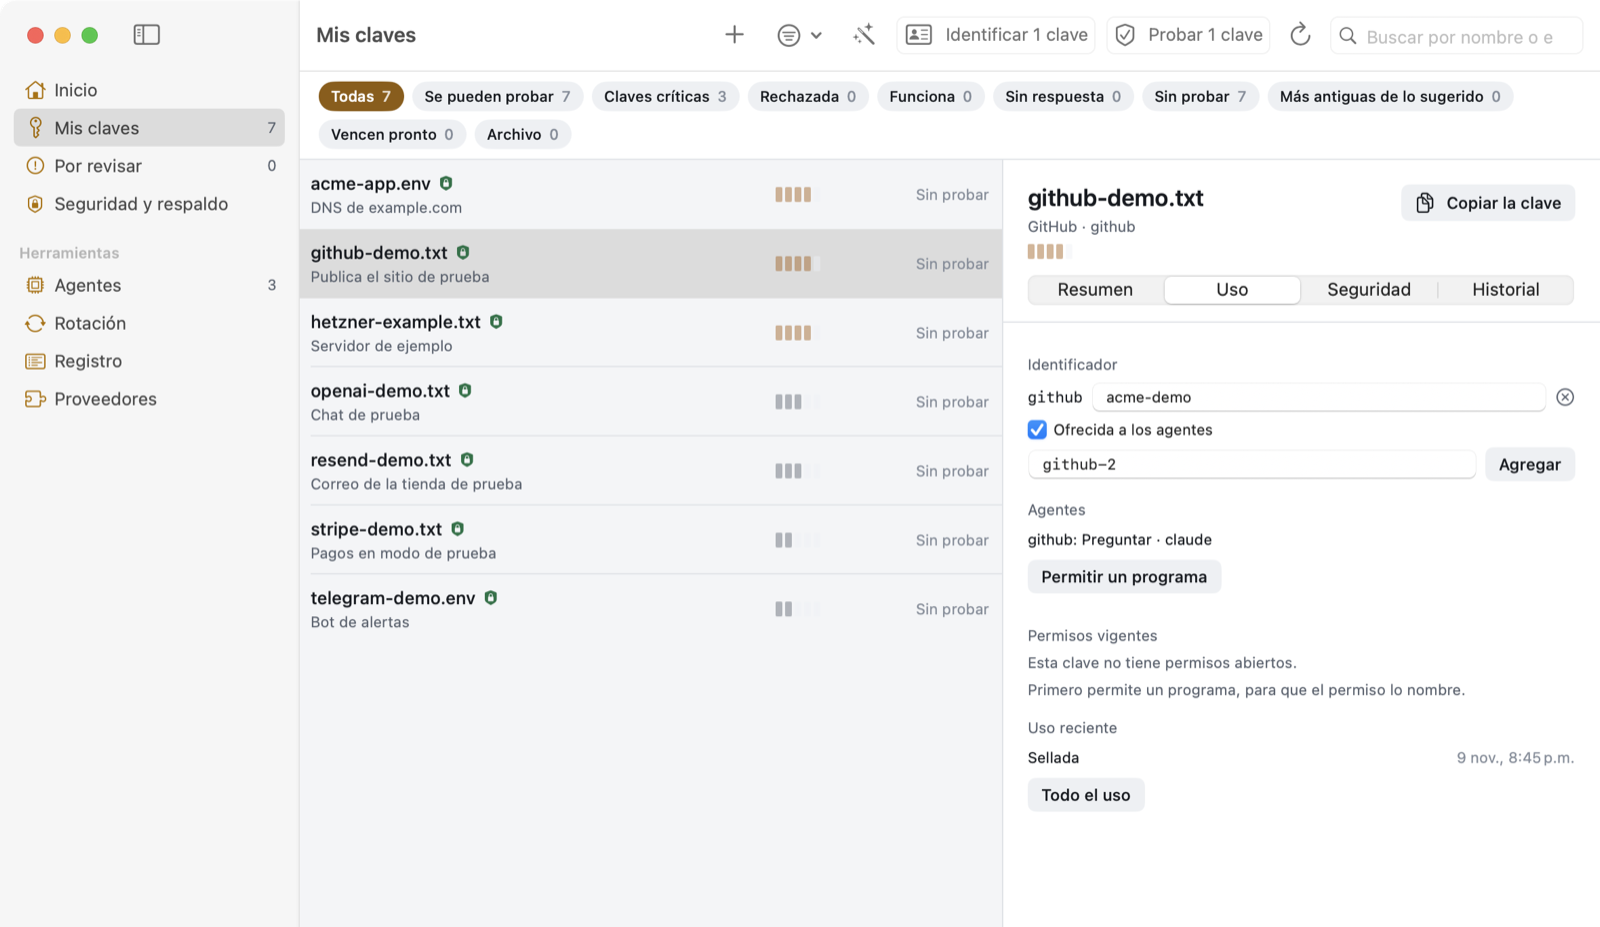
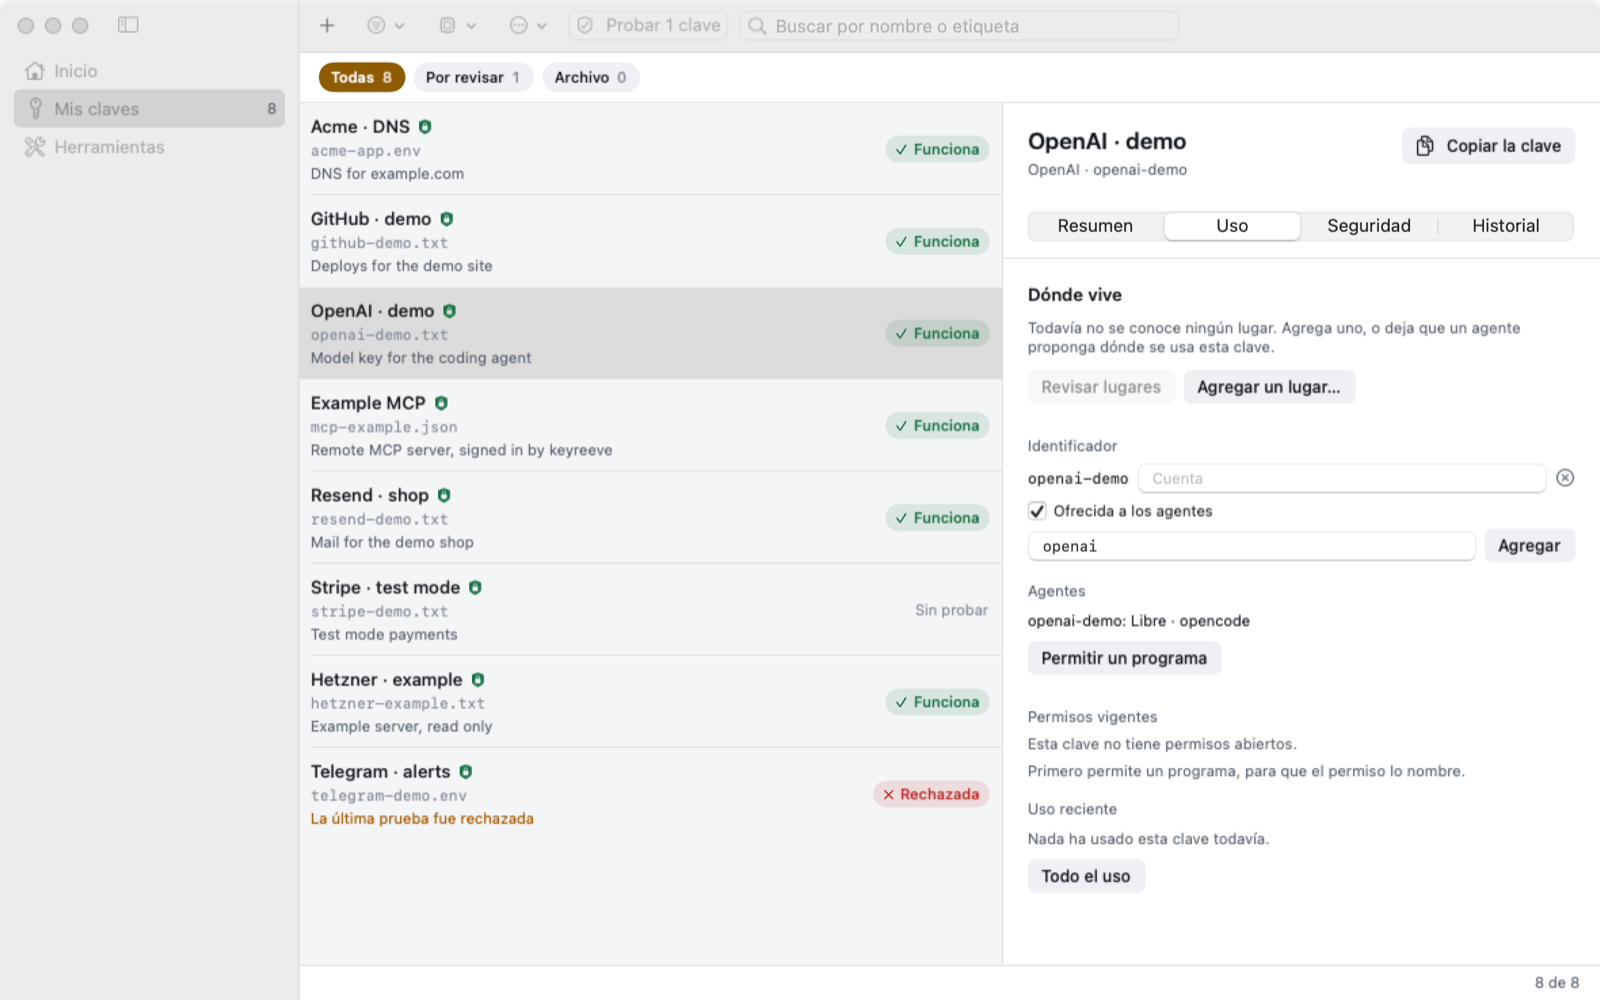
Draw the docs screenshots and a tour GIF from the real views over made-up keys

diff --git a/app/Tests/AppTests/DocsScreenshots.swift b/app/Tests/AppTests/DocsScreenshots.swift
@@ -1,0 +1,116 @@
+import AppKit
+@testable import KeyreeveCatalog
+@testable import KeyreeveVault
+import Foundation
+@testable import KeyreeveUI
+import SwiftUI
+import Testing
+
+/// The screenshots of the README and the site, drawn from the real views over made-up keys, in a real window
+/// with its title bar. Off unless KEYREEVE_DOCS_SHOTS names a folder: the images go to <folder>/en and
+/// <folder>/es, and `app/docs-screenshots.sh` copies them to docs/img.
+@MainActor
+struct DocsScreenshots {
+    static let folder = ProcessInfo.processInfo.environment["KEYREEVE_DOCS_SHOTS"]
+
+    static let keys: [(source: String, id: String, provider: String, name: String, description: String, tags: [String], result: String?)] = [
+        ("acme-app.env", "acme-app", "cloudflare", "Acme · DNS", "DNS for example.com", ["acme", "infra"], "works"),
+        ("github-demo.txt", "github-demo", "github", "GitHub · demo", "Deploys for the demo site", ["demo"], "works"),
+        ("openai-demo.txt", "openai-demo", "openai", "OpenAI · demo", "Model key for the coding agent", ["demo", "agents"], "works"),
+        ("mcp-example.json", "mcp-example", "example-mcp", "Example MCP", "Remote MCP server, signed in by keyreeve", ["agents"], "works"),
+        ("resend-demo.txt", "resend-demo", "resend", "Resend · shop", "Mail for the demo shop", ["shop"], "works"),
+        ("stripe-demo.txt", "stripe-demo", "stripe", "Stripe · test mode", "Test mode payments", ["shop", "money"], nil),
+        ("hetzner-example.txt", "hetzner-example", "hetzner", "Hetzner · example", "Example server, read only", ["infra"], "works"),
+        ("telegram-demo.env", "telegram-demo", "telegram", "Telegram · alerts", "Alerts bot", ["infra"], "rejected"),
+    ]
+
+    func model() -> AppModel {
+        let home = FileManager.default.temporaryDirectory.appendingPathComponent("keyreeve-docs-\(UUID().uuidString)")
+        try? FileManager.default.createDirectory(at: home, withIntermediateDirectories: true)
+        let model = AppModel(files: KeyreeveFiles(directory: home), binary: nil)
+        model.items = Self.keys.map { key in
+            var item = CatalogItem(
+                path: key.source, tags: key.tags + ["provider:\(key.provider)"], modified: "2026-10-02", lastResult: key.result ?? "",
+                lastChecked: key.result == nil ? "" : "2026-11-27", recipes: [key.provider], name: key.name, description: key.description)
+            item.vault = .sealed
+            return item
+        }
+        model.providers = ProviderDirectory(Self.keys.map {
+            ProviderInfo(id: $0.provider, name: $0.name.components(separatedBy: " · ").first ?? $0.provider, hosts: ["api.\($0.provider).com"], can_identify: true)
+        })
+        model.keyIndex = KeyIndex(keys: Self.keys.map {
+            KeyIndex.Key(id: $0.id, source: $0.source, provider: $0.provider, variable: $0.provider.uppercased().replacingOccurrences(of: "-", with: "_") + "_TOKEN")
+        })
+        model.agentPolicy = AgentPolicy(
+            levels: ["openai-demo": .free, "mcp-example": .free, "github-demo": .ask, "resend-demo": .ask, "hetzner-example": .ask],
+            agents: ["openai-demo": ["opencode"], "mcp-example": ["opencode", "claude"]])
+        model.hasCatalog = true
+        model.hasVault = true
+        model.unlocked = true
+        model.message = nil
+        model.lastRun = RunSummary(items: model.items, checked: Set(model.items.map(\.path)))
+        var use = KeyTidy.Use()
+        use.count = 42
+        use.last = Date().addingTimeInterval(-7200)
+        use.agents = ["opencode"]
+        use.hosts = ["api.openai.com"]
+        var mcp = use
+        mcp.count = 17
+        mcp.agents = ["opencode", "claude"]
+        mcp.hosts = ["mcp.example.com"]
+        var mail = use
+        mail.count = 3
+        mail.last = Date().addingTimeInterval(-86_400)
+        mail.agents = ["claude"]
+        mail.hosts = ["api.resend.com"]
+        model.inUse = [
+            KeyInUse(id: "openai-demo", source: "openai-demo.txt", project: "demo", provider: "openai", description: "Model key for the coding agent", use: use),
+            KeyInUse(id: "mcp-example", source: "mcp-example.json", project: "demo", provider: "example-mcp", description: "Remote MCP server", use: mcp),
+            KeyInUse(id: "resend-demo", source: "resend-demo.txt", project: "shop", provider: "resend", description: "Mail for the demo shop", use: mail),
+        ]
+        return model
+    }
+
+    /// Draws a view in a titled window, as the app shows it, and keeps it as a PNG.
+    func shoot<V: View>(_ view: V, named name: String, in folder: URL, locale: Locale) throws {
+        _ = NSApplication.shared
+        let size = NSSize(width: 1180, height: 700)
+        let window = NSWindow(
+            contentRect: NSRect(origin: NSPoint(x: -20000, y: -20000), size: size),
+            styleMask: [.titled, .closable, .miniaturizable, .resizable, .fullSizeContentView], backing: .buffered, defer: false)
+        window.appearance = NSAppearance(named: .aqua)
+        window.titleVisibility = .hidden
+        window.contentViewController = NSHostingController(rootView: view.frame(width: size.width, height: size.height).environment(\.locale, locale))
+        window.setFrame(NSRect(origin: NSPoint(x: -20000, y: -20000), size: size), display: true)
+        window.orderFrontRegardless()
+        window.makeKey()
+        RunLoop.main.run(until: Date().addingTimeInterval(1.5))
+        defer { window.orderOut(nil) }
+        let frame = try #require(window.contentView?.superview)
+        frame.layoutSubtreeIfNeeded()
+        // Twice the points, as on a Retina screen, whatever screen this runs on.
+        let image = try #require(NSBitmapImageRep(
+            bitmapDataPlanes: nil, pixelsWide: Int(frame.bounds.width * 2), pixelsHigh: Int(frame.bounds.height * 2), bitsPerSample: 8,
+            samplesPerPixel: 4, hasAlpha: true, isPlanar: false, colorSpaceName: .deviceRGB, bytesPerRow: 0, bitsPerPixel: 0))
+        image.size = frame.bounds.size
+        frame.cacheDisplay(in: frame.bounds, to: image)
+        let png = try #require(image.representation(using: .png, properties: [:]))
+        try png.write(to: folder.appendingPathComponent("\(name).png"))
+    }
+
+    @Test func testTheDocsScreenshots() throws {
+        guard let root = Self.folder else { return }
+        for language in [Language.english, Language.spanish] {
+            let folder = URL(fileURLWithPath: root).appendingPathComponent(language == .spanish ? "es" : "en")
+            try FileManager.default.createDirectory(at: folder, withIntermediateDirectories: true)
+            let locale = Locale(identifier: language == .spanish ? "es_CL" : "en_US")
+            try Language.$override.withValue(language) {
+                try shoot(MainView(model: model(), initial: .home), named: "home", in: folder, locale: locale)
+                try shoot(MainView(model: model(), initial: .all), named: "keys", in: folder, locale: locale)
+                try shoot(MainView(model: model(), initial: .all, chosen: "openai-demo.txt", keyTab: .use), named: "key-usage", in: folder, locale: locale)
+                try shoot(MainView(model: model(), initial: .agents), named: "agents", in: folder, locale: locale)
+                try shoot(MainView(model: model(), initial: .vault), named: "vault", in: folder, locale: locale)
+            }
+        }
+    }
+}

diff --git a/app/Sources/KeyreeveUI/MainView.swift b/app/Sources/KeyreeveUI/MainView.swift
@@ -38,9 +38,24 @@ public struct MainView: View {
     /// What this view worked out from the keys, kept until the keys, the filter or the search change.
     @State private var memo = ViewMemo()
 
+    /// The tab a chosen key's page opens on.
+    private let keyTab: KeyDetail.Tab
+
     public init(model: AppModel, initial: Sidebar = .home, chosen: CatalogItem.ID? = nil) {
+        self.init(model: model, initial: initial, chosen: chosen, keyTab: .summary)
+    }
+
+    init(model: AppModel, initial: Sidebar, chosen: CatalogItem.ID?, keyTab: KeyDetail.Tab) {
         self.model = model
-        _selection = State(initialValue: initial)
+        self.keyTab = keyTab
+        // A part of Tools opens Tools on that part, as going there does.
+        switch initial {
+        case .vault, .agents, .providers, .rotation, .log:
+            _selection = State(initialValue: .tools)
+            _toolsPart = State(initialValue: initial)
+        default:
+            _selection = State(initialValue: initial)
+        }
         _chosenRows = State(initialValue: chosen.map { [$0] } ?? [])
     }
 
@@ -205,7 +220,7 @@ public struct MainView: View {
                 if let chosenItem {
                     Rectangle().fill(Theme.border).frame(width: 1)
                     // Wide enough to read without truncating, with the technical parts behind a disclosure.
-                    KeyDetail(item: chosenItem, model: model).frame(width: 440)
+                    KeyDetail(item: chosenItem, model: model, tab: keyTab).frame(width: 440)
                 }
             }
             // An inset, not the first row of a stack: a scroll view at the column's top edge reaches under the

diff --git a/app/Sources/KeyreeveUI/KeyDetail.swift b/app/Sources/KeyreeveUI/KeyDetail.swift
@@ -20,6 +20,12 @@ struct KeyDetail: View {
     @State private var tab: Tab = .summary
     @State private var showsMore = false
 
+    init(item: CatalogItem, model: AppModel, tab: Tab = .summary) {
+        self.item = item
+        self.model = model
+        _tab = State(initialValue: tab)
+    }
+
     private var isSealed: Bool { item.vault == .sealed || item.vault == .outdated }
     private var identifiers: [KeyIndex.Key] { model.allKeys(forSource: item.path) }
 
